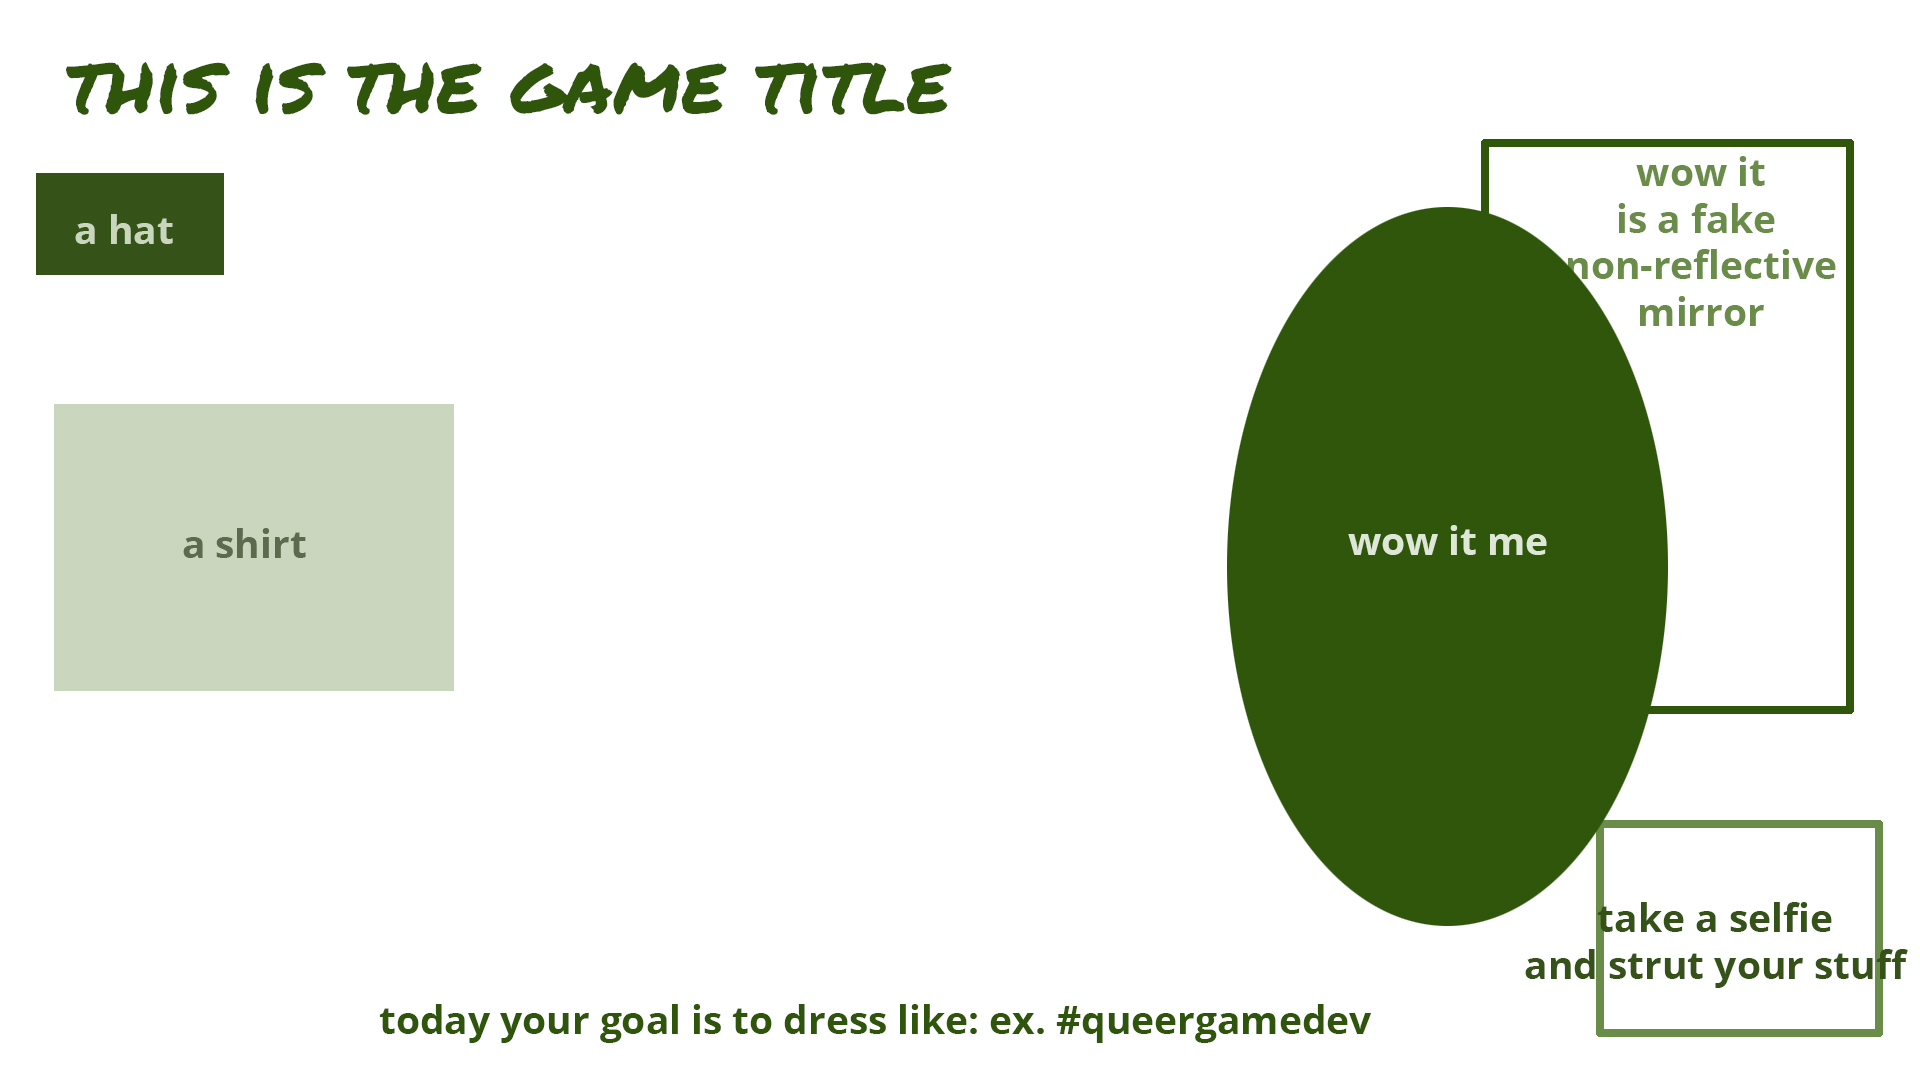
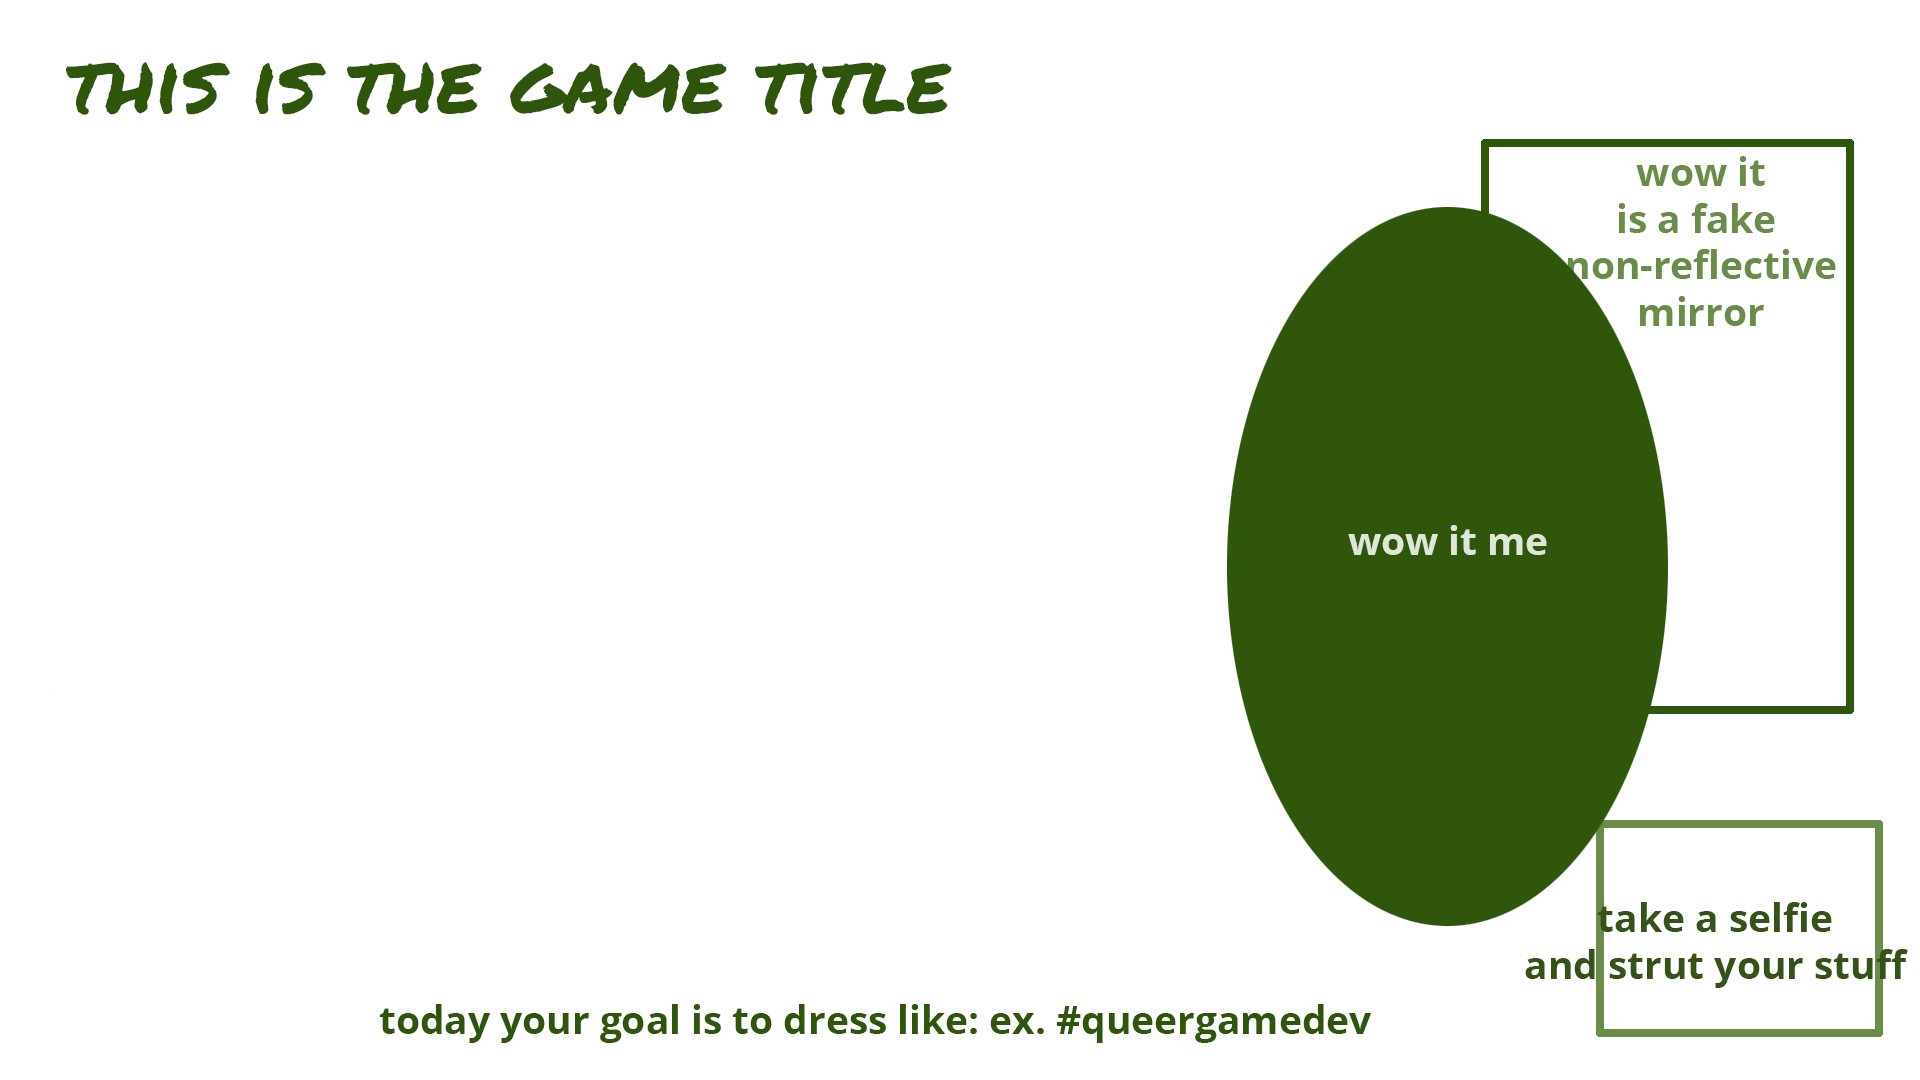
Draggy droppy

Changed region(s): [[0.0312, 0.3667, 0.25, 0.6417], [0.0, 0.1528, 0.125, 0.275]]

diff --git a/js/game.js b/js/game.js
@@ -1,8 +1,31 @@
 var bg;
+var clothing = [];
 
 function initGame()
 {
 	bg = new createjs.Bitmap(queue.getResult("mockup"));
+
+	initClothingItem("mockup-hat", 200, 250);
+	initClothingItem("mockup-shirt", 300, 500);
+}
+
+function initClothingItem(name, xpos, ypos)
+{
+	var c = {};
+	c = new createjs.Bitmap(queue.getResult(name));
+	c.regX = c.getBounds().width/2;
+	c.regY = c.getBounds().height/2;
+	c.x = xpos;
+	c.y = ypos;
+
+	c.on("pressmove", function(evt)
+	{
+		var newPos = stage.globalToLocal(evt.stageX, evt.stageY);
+    	evt.target.x = newPos.x;
+    	evt.target.y = newPos.y;
+	});
+
+	clothing.push(c);
 }
 
 function startGame()
@@ -10,4 +33,10 @@ function startGame()
 	currentScreen = SCREEN_GAME;
 
 	stage.addChild(bg);
+
+	var n;
+	for (n of clothing)
+	{
+		stage.addChild(n);
+	}
 }
